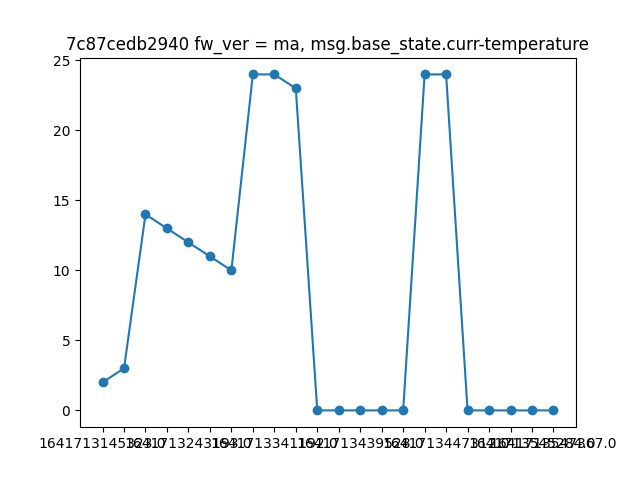
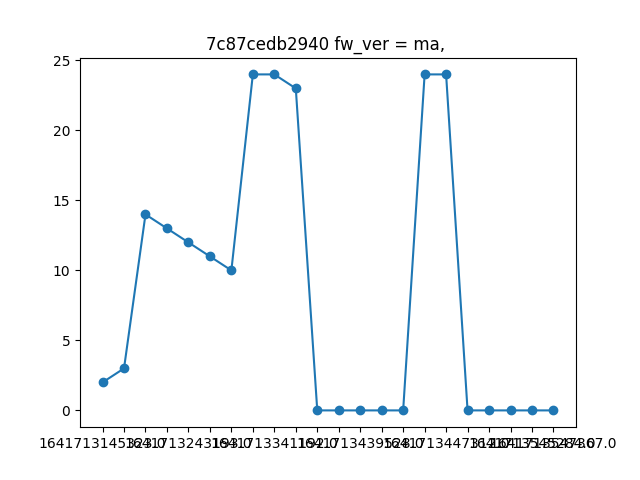
add

Changed region(s): [[0.0938, 0.0625, 0.9062, 0.125]]

diff --git a/json_convert_to_csv/sender_info.py b/json_convert_to_csv/sender_info.py
@@ -81,7 +81,7 @@ def save_f(_topic, _data_list, _device):
     pyplot.plot(x_list, y_list)
     pyplot.tick_params(axis='x', labelsize=10)
     pyplot.xticks(x_list, labels=label)
-    pyplot.title('7c87cedb2940 fw_ver = ma, msg.base_state.curr-temperature')
+    pyplot.title('7c87cedb2940 fw_ver = ma, ')
     pyplot.show()
     pyplot.savefig('data.png')
 
